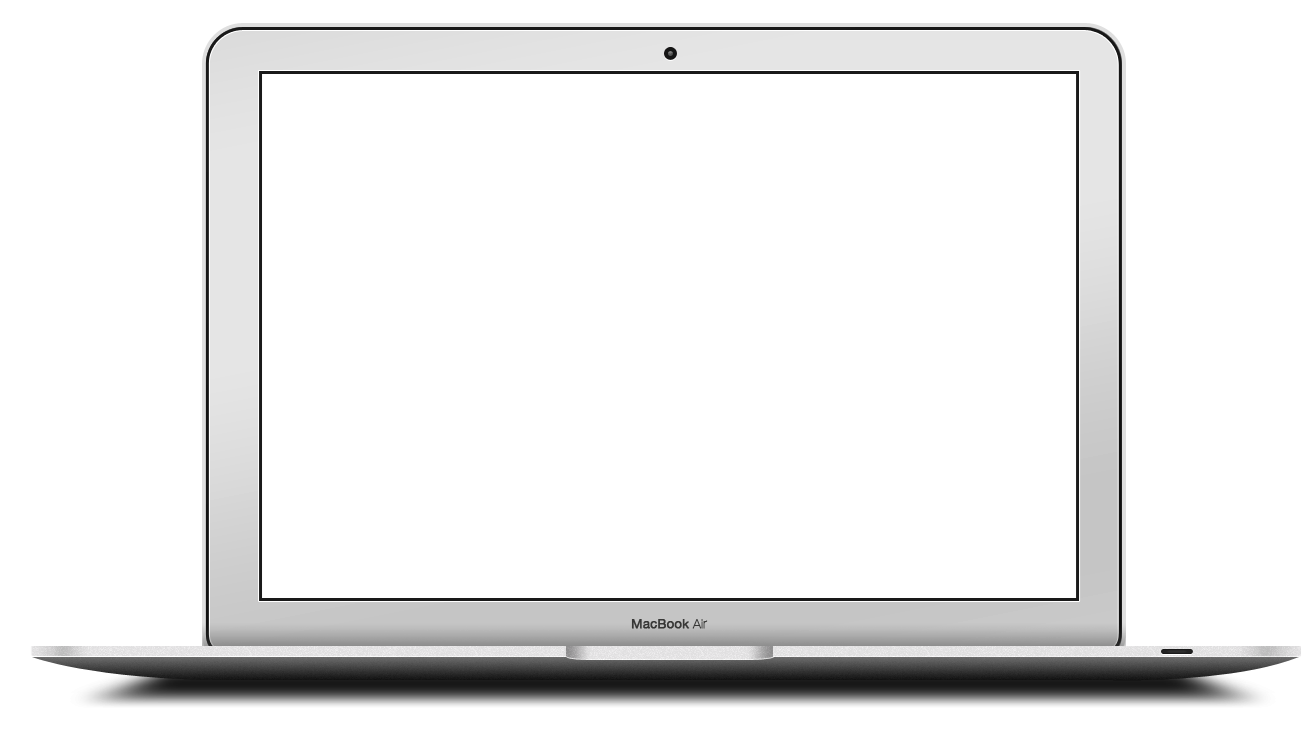
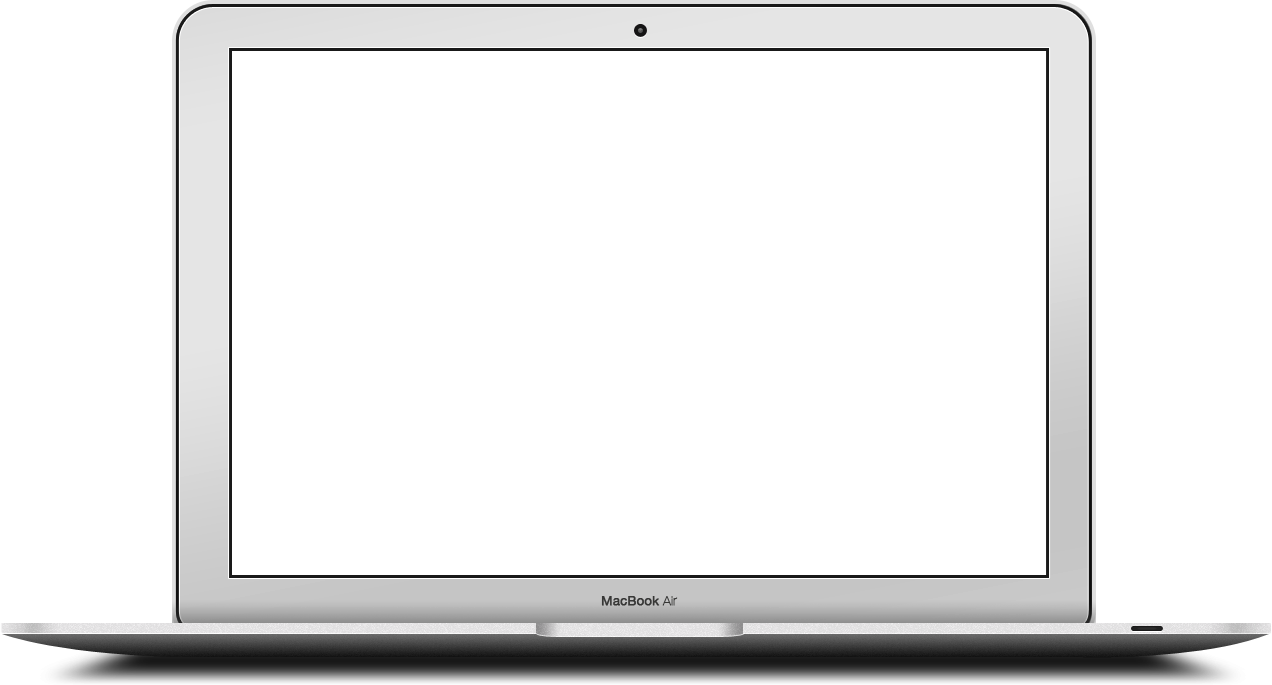
Added screen and page background

Changed region(s): [[0.0, 0.0, 1.0, 1.0]]

diff --git a/css/main.css b/css/main.css
@@ -1,14 +1,21 @@
+body {
+    background-image: url("../img/bg.png");
+    background-repeat: repeat;
+}
+
 .laptop-body {
     margin: 0 auto;
     padding: 0;
     width:1000px;
-    z-index: 1;
+    z-index: 5;
     position: relative;
 }
 
 .viewport {
-    z-index: 2;
+    z-index: -1;
+    width: 665px;
     position: absolute;
-    top: 50px;
-    width: 600px;
+    margin-left: -300px;
+    top: 40px;
+    left: 470px;
 }
